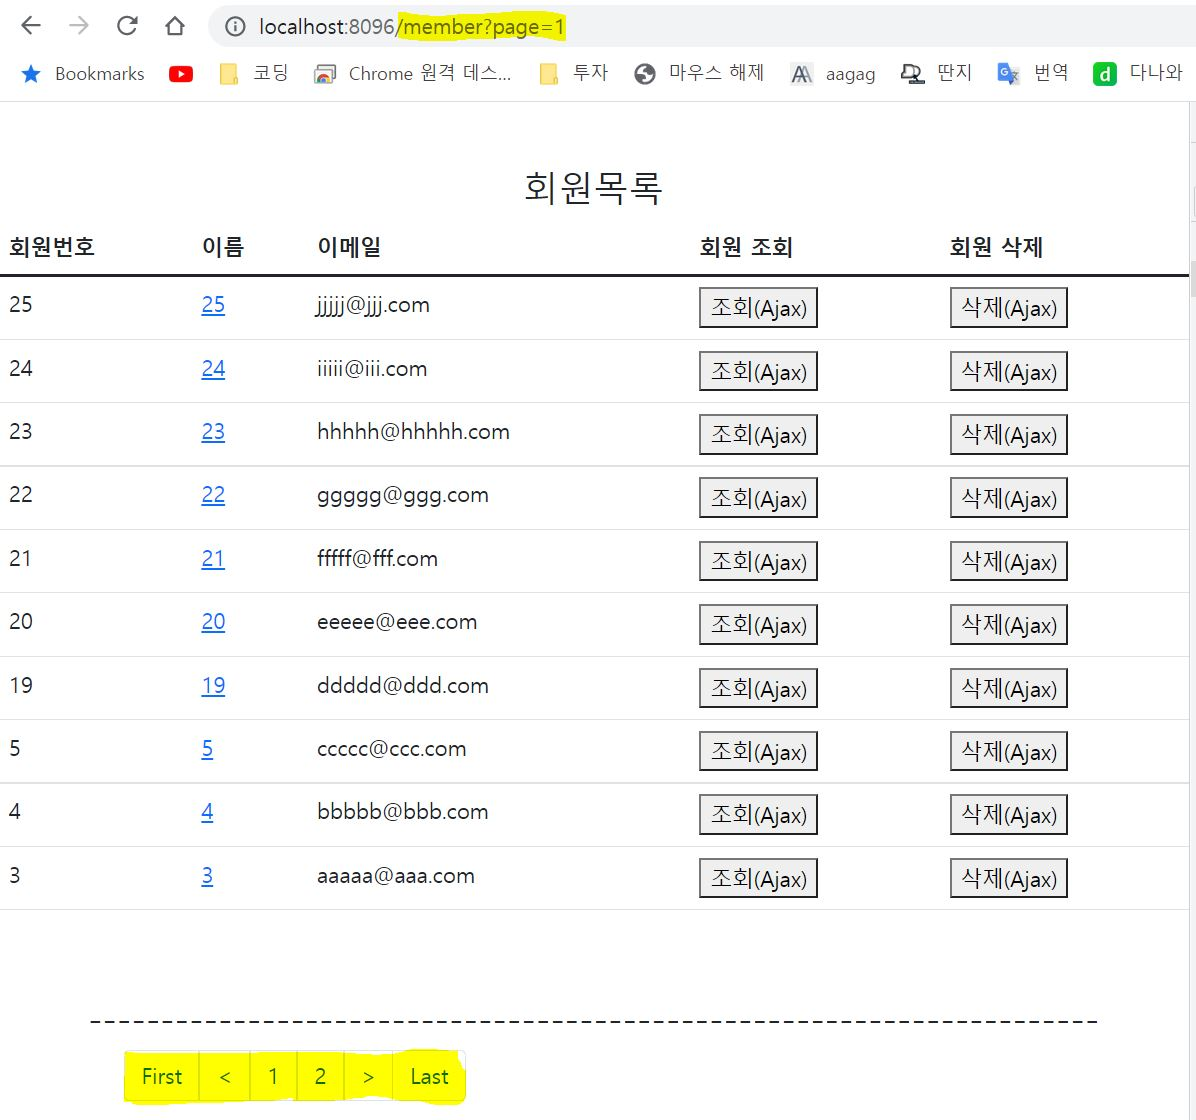
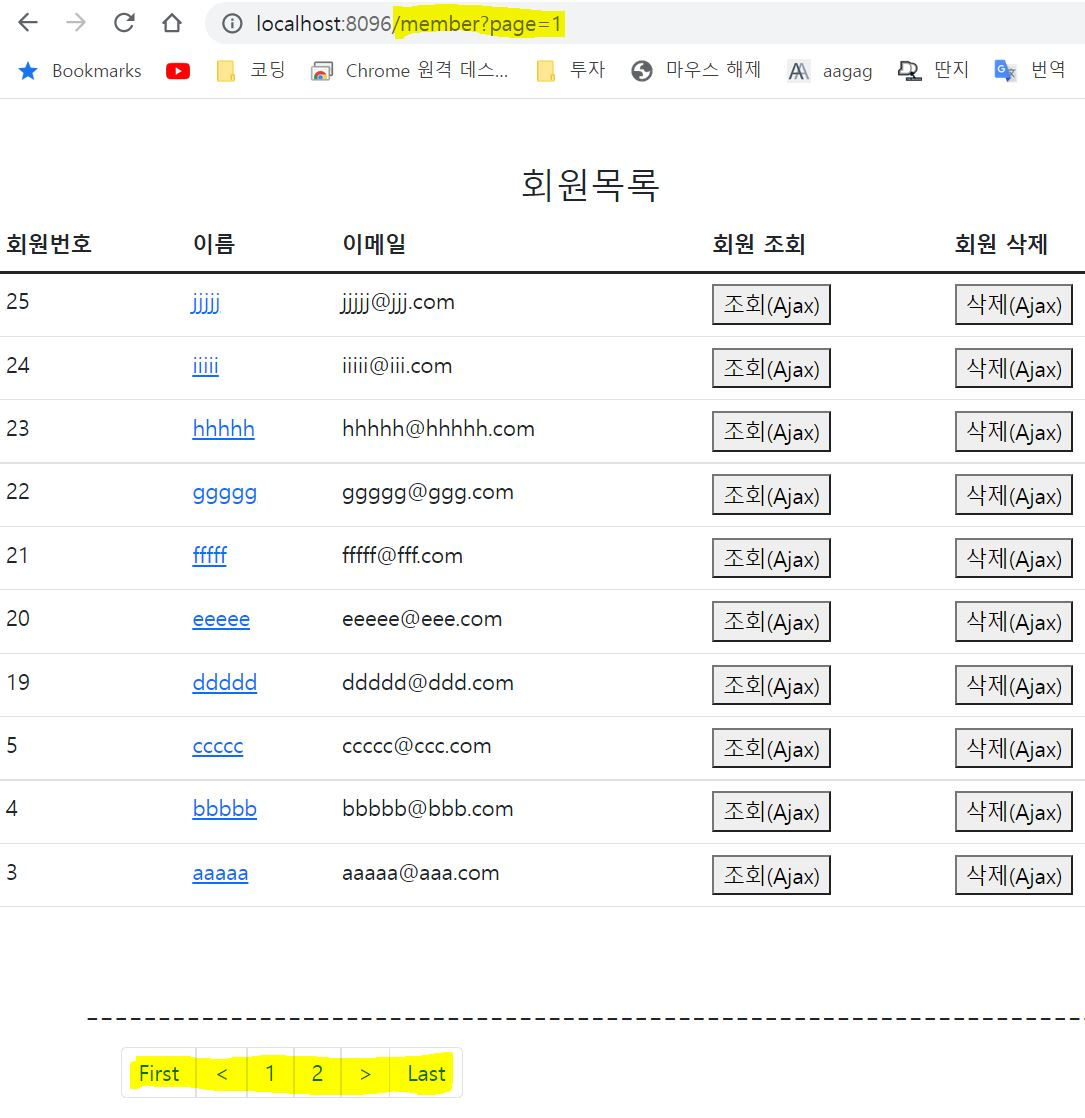
0319

diff --git a/_posts/2022-03-22-memberboard17.md b/_posts/2022-03-22-memberboard17.md
@@ -75,7 +75,7 @@ search: true
             브라우저 주소창에 보이는 주소값은 /board?page=1 형태로 보여진다.</h6></center>
 
 <div align="center">
-<img src="https://github.com/Gibson1211/Gibson1211.github.io/blob/master/assets/images/paging_findAll.JPG?raw=true" width="650">
+<img src="https://github.com/Gibson1211/Gibson1211.github.io/blob/master/assets/images/memberPagingForm.jpg?raw=true" width="650">
 </div>
 <br>
 
@@ -84,15 +84,15 @@ search: true
     <html lang="en" xmlns:th="http://www.thymeleaf.org">
     <head>
       <meta charset="UTF-8">
-      <title>글목록</title>
+      <title>findAll.html</title>
+      <script src="https://code.jquery.com/jquery-3.6.0.js"></script>
       <link href="https://cdn.jsdelivr.net/npm/bootstrap@5.1.3/dist/css/bootstrap.min.css" rel="stylesheet" integrity="sha384-1BmE4kWBq78iYhFldvKuhfTAU6auU8tT94WrHftjDbrCEXSU1oBoqyl2QvZ6jIW3" crossorigin="anonymous">
       <script src="https://cdn.jsdelivr.net/npm/bootstrap@5.1.3/dist/js/bootstrap.bundle.min.js" integrity="sha384-ka7Sk0Gln4gmtz2MlQnikT1wXgYsOg+OMhuP+IlRH9sENBO0LRn5q+8nbTov4+1p" crossorigin="anonymous"></script>
-      <script src="https://code.jquery.com/jquery-3.6.0.js"></script>
       <script>
-        // function detail(boardId){
-        const detail = (boardId) => {
-          console.log(boardId);
-          const reqUrl = "/board/" + boardId;
+        // function detail(memberId){
+        const detail = (memberId) => {
+          console.log(memberId);
+          const reqUrl = "/member/" + memberId;
           $.ajax({
             type: 'post',
             url: reqUrl,
@@ -100,29 +100,31 @@ search: true
             success: function(result) {
               console.log(result);
               let output = "";
-              output += "<table>\n" +
+              output += "<table class=\"table table-hover\">\n" +
                 "    <thead>\n" +
                 "    <tr>\n" +
-                "        <th>글번호</th>\n" +
-                "        <th>작성자명</th>\n" +
-                "        <th>제목</th>\n" +
-                "        <th>조회수</th>\n" +
-                "        <th>작성일자</th>\n" +
-                "        <th>회원번호</th>\n" +
+                "        <th scope=\"col\">번호</th>\n" +
+                "        <th scope=\"col\">이름</th>\n" +
+                "        <th scope=\"col\">이메일</th>\n" +
+                "        <th scope=\"col\">주소</th>\n" +
+                "        <th scope=\"col\">전화번호</th>\n" +
+                "        <th scope=\"col\">생년월일</th>\n" +
+                "        <th scope=\"col\">파일이름</th>\n" +
                 "    </tr>\n" +
                 "    </thead>\n" +
                 "    <tbody>\n" +
                 "        <tr>\n" +
-                "            <td>"+result.boardId + "</td>\n" +
-                "            <td>"+result.boardWriter + "</td>\n" +
-                "            <td>"+result.boardTitle+ "</td>\n" +
-                "            <td>"+result.boardHits+ "</td>\n" +
-                "            <td>"+result.boardDate + " </td>\n" +
-                "            <td>"+result.memberId + " </td>\n" +
+                "            <td>"+result.memberId + "</td>\n" +
+                "            <td>"+result.memberName + "</td>\n" +
+                "            <td>"+result.memberEmail+ "</td>\n" +
+                "            <td>"+result.memberAddr+ "</td>\n" +
+                "            <td>"+result.memberPhone + " </td>\n" +
+                "            <td>"+result.memberDate + " </td>\n" +
+                "            <td>"+result.memberFilename + " </td>\n" +
                 "        </tr>\n" +
                 "    </tbody>\n" +
                 "</table>"
-              document.getElementById("board-detail").innerHTML = output;
+              document.getElementById("member-detail").innerHTML = output;
             },
             error: function() {
               alert('ajax 실패');
@@ -130,102 +132,127 @@ search: true
           });
         }
       </script>
-    </head>
-    <body>
     
+      <script>
+        const deleteById = (memberId) => {
+    
+          console.log(memberId);
+          const reqUrl = "/member/"+memberId;
+          $.ajax({
+            type: 'delete',
+            url:reqUrl,
+            success: function (){
+              location.href="/";
+            },
+            error: function (){
+    
+            }
+          });
+        }
+      </script>
+    </head>
+    
+    <body>
     <div th:align="center">
-      <h2>글 목록</h2>
-      <table>
+      <br><br><h3>회원목록</h3>
+      <table class="table table-hover">
         <thead>
         <tr>
-          <!--        <th>회원번호</th>-->
-          <th>글번호</th>
-          <th>작성자명</th>
-          <!--        <th>비밀번호</th>-->
-          <th>제목</th>
-          <th>조회수</th>
-          <th>작성일자</th>
-          <th>회원번호</th>
-          <th>글 상세조회</th>
+          <th scope="col">회원번호</th>
+          <th scope="col">이름</th>
+          <!--        <th scope="col">비밀번호</th>-->
+          <th scope="col">이메일</th>
+          <!--        <th scope="col">주소</th>-->
+          <!--        <th scope="col">전화번호</th>-->
+          <!--        <th scope="col">생년월일</th>-->
+          <!--        <th scope="col">파일이름</th>-->
+          <th scope="col">회원 조회</th>
+          <th scope="col">회원 삭제</th>
         </tr>
         </thead>
         <tbody>
-        <tr th:each="board: ${boardList}">
-          <td th:text="${board.boardId}"></td>
-          <td th:text="${board.boardWriter}"></td>
-          <td><a th:href="@{|/board/${board.boardId}|}">
-            <span th:text="${board.boardTitle}"></span></a></td>
-          <td th:text="${board.boardHits}"></td>
-          <td th:text="${board.boardDate}"></td>
-          <td th:text="${board.memberId}"></td>
-          <td><button th:onclick="detail([[${board.boardId}]])">글 상세조회(Ajax)</button></td>
-          <!--        <td><button th:onclick="deleteById([[${board.boardId}]])">글삭제(Ajax)</button></td>-->
+        <tr th:each="member: ${memberList}">
+          <td th:text="${member.memberId}"></td>
+          <td><a th:href="@{|/member/${member.memberId}|}">
+            <span th:text="${member.memberName}"></span></a></td>
+          <!--          <td th:hidden="${member.memberPw}"></td>-->
+          <td th:text="${member.memberEmail}"></td>
+          <!--          <td th:text="${member.memberAddr}"></td>-->
+          <!--          <td th:text="${member.memberPhone}"></td>-->
+          <!--          <td th:text="${member.memberDate}"></td>-->
+          <!--          <td th:text="${member.memberFilename}"></td>-->
+          <td><button th:onclick="detail([[${member.memberId}]])">조회(Ajax)</button></td>
+          <td><button th:onclick="deleteById([[${member.memberId}]])">삭제(Ajax)</button></td>
     
         </tr>
-        </tbody><br><br>
+        </tbody>
       </table>
+      <br>
+      <div id="member-detail"></div>
+      <br>
+      <h3>----------------------------------------------------------------------</h3>
+      <!-- 브라우저 주소창에 보이는 주소값: /member?page=1
+           html에서 타임리프로 작성하는 주소값: /member(page==1) -->
     
-      <br><br><br>
-      <div id="board-detail"></div>
+      <div class="container" th:align="center">
+        <ul class="pagination">
+          <li class="page-item">
+            <!-- 첫 페이지로 가는 링크 -->
+            <a class="page-link" th:href="@{/member(page=1)}">
+              <span>First</span>
+            </a>
+          </li>
     
-    </div>
+          <li th:class="${memberList.first} ? 'disabled'" class="page-item">
+            <!--boardList.first: isFirst() 호출 / 링크에 샾이 있으면 그 자리에 머무른다.(컨트롤러에 요청안함)
+                boardList.number: getNumber()-->
+            <a class="page-link" th:href="${memberList.first} ? '#' : @{/member(page=${memberList.number})}">
+              <span>&lt;</span> <!-- '<'를 표현(HTML문법) -->
+            </a>
+          </li>
     
-    <!-- 브라우저 주소창에 보이는 주소값: /board?page=1
-         html에서 타임리프로 작성하는 주소값: /board(page==1) -->
+          <!-- startPage ~ endPage 까지 숫자를 만들어주는 역할-->
+          <li th:each="page: ${#numbers.sequence(startPage, endPage)}"
+              th:class="${page == memberList.number + 1} ? 'active'" class="page-item">
+            <a class="page-link" th:text="${page}" th:href="@{/member(page=${page})}"></a>
+          </li>
     
-    <div class="container" th:align="center">
-      <ul class="pagination">
-        <li class="page-item">
-          <!-- 첫 페이지로 가는 링크 -->
-          <a class="page-link" th:href="@{/board(page=1)}">
-            <span>First</span>
-          </a>
-        </li>
+          <!-- 다음  페이지 요청
+              현재 3페이지를 보고 있다면 다음 페이지는 4페이지임.
+              getNumber() 값은 2임.
+              따라서 4페이지를 보고 싶다면 getNumber()+2를 해야 컨트롤러에 4를 요청-->
+          <li th:class="${memberList.last} ? 'disabled'">
+            <a class="page-link" th:href="${memberList.last} ? '#' : @{/member(page=${memberList.number + 2})}">
+              <span>&gt;</span>
+            </a>
+          </li>
     
-        <li th:class="${boardList.first} ? 'disabled'" class="page-item">
-          <!--boardList.first: isFirst() 호출 / 링크에 샾이 있으면 그 자리에 머무른다.(컨트롤러에 요청안함)
-              boardList.number: getNumber()-->
-          <a class="page-link" th:href="${boardList.first} ? '#' : @{/board(page=${boardList.number})}">
-            <span>&lt;</span> <!-- '<'를 표현(HTML문법) -->
-          </a>
-        </li>
-    
-        <!-- startPage ~ endPage 까지 숫자를 만들어주는 역할-->
-        <li th:each="page: ${#numbers.sequence(startPage, endPage)}"
-            th:class="${page == boardList.number + 1} ? 'active'" class="page-item">
-          <a class="page-link" th:text="${page}" th:href="@{/board(page=${page})}"></a>
-        </li>
-    
-        <!-- 다음  페이지 요청
-            현재 3페이지를 보고 있다면 다음 페이지는 4페이지임.
-            getNumber() 값은 2임.
-            따라서 4페이지를 보고 싶다면 getNumber()+2를 해야 컨트롤러에 4를 요청-->
-        <li th:class="${boardList.last} ? 'disabled'">
-          <a class="page-link" th:href="${boardList.last} ? '#' : @{/board(page=${boardList.number + 2})}">
-            <span>&gt;</span>
-          </a>
-        </li>
-    
-        <li class="page-item">
-          <a class="page-link" th:href="@{/board(page=${boardList.totalPages})}">
-            <span>Last</span>
-          </a>
-        </li>
-      </ul>
-    </div>
-    
-    <div th:align="center">
-      세션값 이메일: <p th:text="${session['loginEmail']}"></p>    
-    </div>
-    
+          <li class="page-item">
+            <a class="page-link" th:href="@{/member(page=${memberList.totalPages})}">
+              <span>Last</span>
+            </a>
+          </li>
+        </ul>
+        <h3>-----------------------------------------------------------------</h3>
+        <br>
+        <div th:align="center"></div>
+        <form action="/member/search" method="get">
+          <select name="searchType">
+            <option th:value=memberName>이름</option>
+            <option th:value=memberEmail>이메일</option>
+          </select>
+          <input type="text" name="keyword" placeholder="검색어를 입력하세요.">
+          <input type="submit" value="검색">
+        </form>
+      </div>
     </body>
-</html>
+    </html>
 ```
 <br>
 
-<center><h6>먼저 한 페이지에 보여줄 글의 갯수와 화면에 보여줄 페이지의 갯수 정의를 위해<br>
-            common이라는 package를 생성하고 그안에 PagingConst라는 class를 생성한다.<br>
-            그리고 내용을 아래와 같이 작성한다.</h6></center>
+<center><h6>글목록 페이징 글에서 이미 만든 한 페이지에 보여줄 글의 갯수와 <br>화면에 보여줄 페이지의 갯수를 정의하고자 하면<br>
+            common package 內 PagingConst라는 class를 참고한다.<br>
+            내용은 아래와 같다.</h6></center>
 
 ```java 
     package com.ex.test01.common;
@@ -237,66 +264,61 @@ search: true
 }
 ```
 <br>
-<center><h6>BoardController에 paging 관련 메서드를 추가해준다.</h6></center>
+<center><h6>MemberController에 paging 관련 메서드를 추가해준다.</h6></center>
 
 ```java 
-    // 페이징처리 : 브라우저 주소창에 보이는 주소값: /board?page=1
-    // html에서 타임리프로 작성하는 주소값: /board(page==1)
+    //페이징처리(member?page=5)
+    //5번글(/board/5) 여기에서 5는 고유번호
     @GetMapping
-    public String paging(@PageableDefault(page=1) Pageable pageable, Model model){
-        //Page라는 객체가 있다.
-        Page<BoardDetailDTO> boardList = bs.paging(pageable);
-        model.addAttribute("boardList",boardList);
+    public String paging(@PageableDefault(page = 1) Pageable pageable, Model model) {
+        Page<MemberDetailDTO> memberList = ms.paging(pageable);
+        model.addAttribute("memberList", memberList);
         int startPage = (((int) (Math.ceil((double) pageable.getPageNumber() / BLOCK_LIMIT))) - 1) * BLOCK_LIMIT + 1;
-        int endPage = ((startPage + BLOCK_LIMIT - 1) < boardList.getTotalPages()) ? startPage + BLOCK_LIMIT - 1 : boardList.getTotalPages();
+        int endPage = ((startPage + BLOCK_LIMIT - 1) < memberList.getTotalPages()) ? startPage + BLOCK_LIMIT - 1 : memberList.getTotalPages();
         model.addAttribute("startPage", startPage);
-        model.addAttribute("endPage",endPage);
-        return  "board/findAll";
+        model.addAttribute("endPage", endPage);
+        return "member/findAll";
     }
 ```
 <br>
-<center><h6>BoardController 內 빨간줄로 표시된 bs.paging을 클릭하면 BoardService에 자동으로 내용이 추가된다.</h6></center>
+<center><h6>MemberController 內 빨간줄로 표시된 ms.paging을 클릭하면 MemberService에 자동으로 내용이 추가된다.</h6></center>
 
 ```java 
     // 페이징 처리
-    Page<BoardDetailDTO> paging(Pageable pageable);
+    Page<MemberDetailDTO> paging(Pageable pageable);
 ```
 <br>
 
-<center><h6>BoardServiceImpl에 paging 관련 내용을 추가한다.</h6></center>
+<center><h6>MemberServiceImpl에 paging 관련 내용을 추가한다.</h6></center>
 
 ```java 
-    // 페이징 처리
+    // 페이징
     @Override
-    public Page<BoardDetailDTO> paging(Pageable pageable) {
+    public Page<MemberDetailDTO> paging(Pageable pageable) {
         int page = pageable.getPageNumber();
-//      *아래 내용은 요청한 페이지가 1이면 페이지값을 0으로 하고 1이 아니면 요청 페이지에서 1을 뺀다는 의미.
-        page=(page==1)? 0:(page-1);
-//         *PageRequest=> 페이지요청 / page => 몇번째? / PagingConst.PAGE_LIMIT => 몇개씩?
-//         *Sort.by(Sort.Direction.DESC,"id") => 어떤식으로 볼거고 어떤걸 기준으로("id"는 Entity필드 이름으로 와야한다.)
-        Page<BoardEntity> boardEntities =
-                br.findAll(PageRequest.of(page, PagingConst.PAGE_LIMIT, Sort.by(Sort.Direction.DESC, "boardId")));
-//         *Page<BoardEntity> => Page<BoardPagingDTO>
-//         *기존 방식대로하면 안된다. -> 페이지 객체가 제공하는 메서드드를 못 쓴다! 이렇게 단순하게 옮기면
-//        *map(): Entity가 담긴 Page 객체를 dto가 담긴 Page 객체로 변환해주는 역할
-        Page<BoardDetailDTO> boardList = boardEntities.map(
-                board -> new BoardDetailDTO(board.getBoardId(),
-                        board.getMemberEntity().getMemberId(),
-                        board.getBoardWriter(),
-                        board.getBoardTitle(),
-                        board.getBoardContents(),
-                        board.getBoardFilename(),
-                        board.getCreateTime(),
-                        board.getBoardHits())
+//         * 요청한 페이지가 1인면 페이지값을 0으로 하고 1이 아니면 요청페이지에서 1을 뺀다.
+//        * page = page -1;
+        page = (page == 1) ? 0 : (page - 1);
+        Page<MemberEntity> memberEntities = mr.findAll(PageRequest.of(page, PagingConst.PAGE_LIMIT, Sort.by(Sort.Direction.DESC, "memberId")));
+//         * Page<BoardEntity> => Page<BoardPagingDTO>
+        Page<MemberDetailDTO> memberList = memberEntities.map(
+                member -> new MemberDetailDTO(member.getMemberId(),
+                        member.getMemberName(),
+                        member.getMemberPw(),
+                        member.getMemberEmail(),
+                        member.getMemberAddr(),
+                        member.getMemberPhone(),
+                        member.getMemberDate(),
+                        member.getMemberFilename())
         );
-        return boardList;
+        return memberList;
     }
 ```
 <br>
 
-<center><h6>여기까지 작성 후 서버를 실행하여 아래와 같이 페이징형태로 글목록(findAll.html)이 보여지는지 확인한다.</h6></center>
+<center><h6>여기까지 작성 후 서버를 실행하여 아래와 같이 페이징형태로 회원목록(findAll.html)이 보여지는지 확인한다.</h6></center>
 <div align="center">
-<img src="https://github.com/Gibson1211/Gibson1211.github.io/blob/master/assets/images/paging_findAll.JPG?raw=true" width="650">
+<img src="https://github.com/Gibson1211/Gibson1211.github.io/blob/master/assets/images/memberPagingOk.JPG?raw=true" width="650">
 </div>
 <center><h6>여기까지 확인이 되면 글목록의 Paging 구현은 정상적으로 구현되었다. </h6></center>
 
